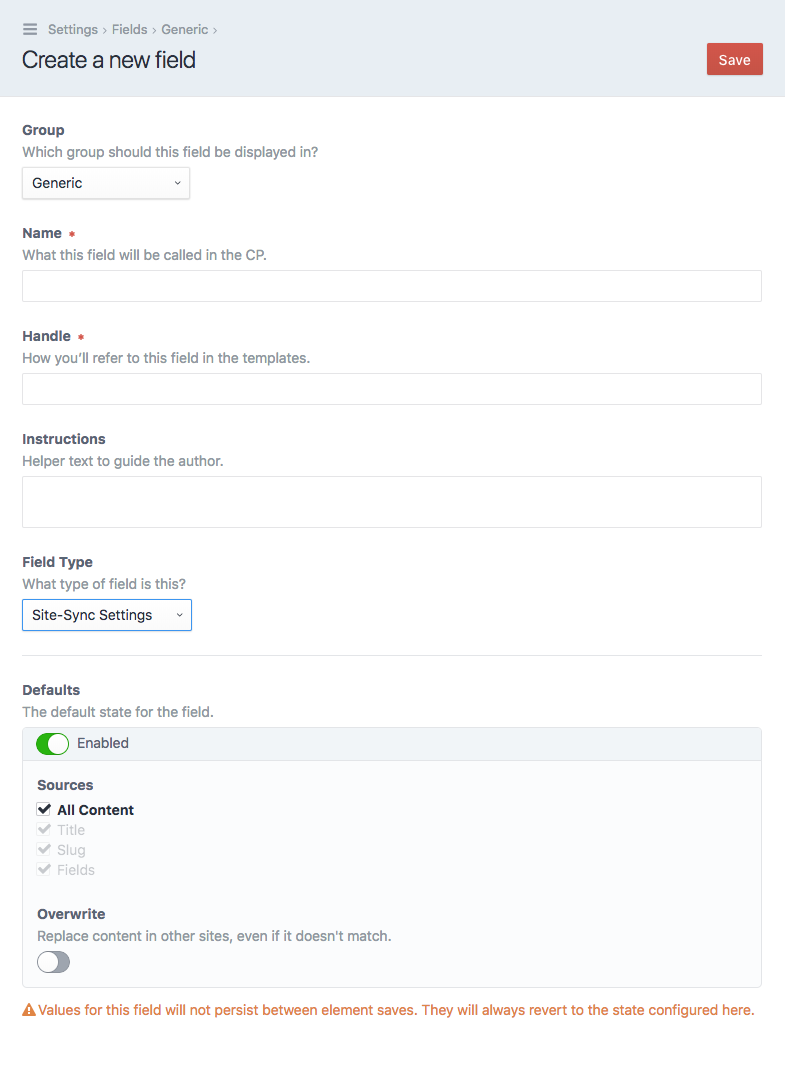
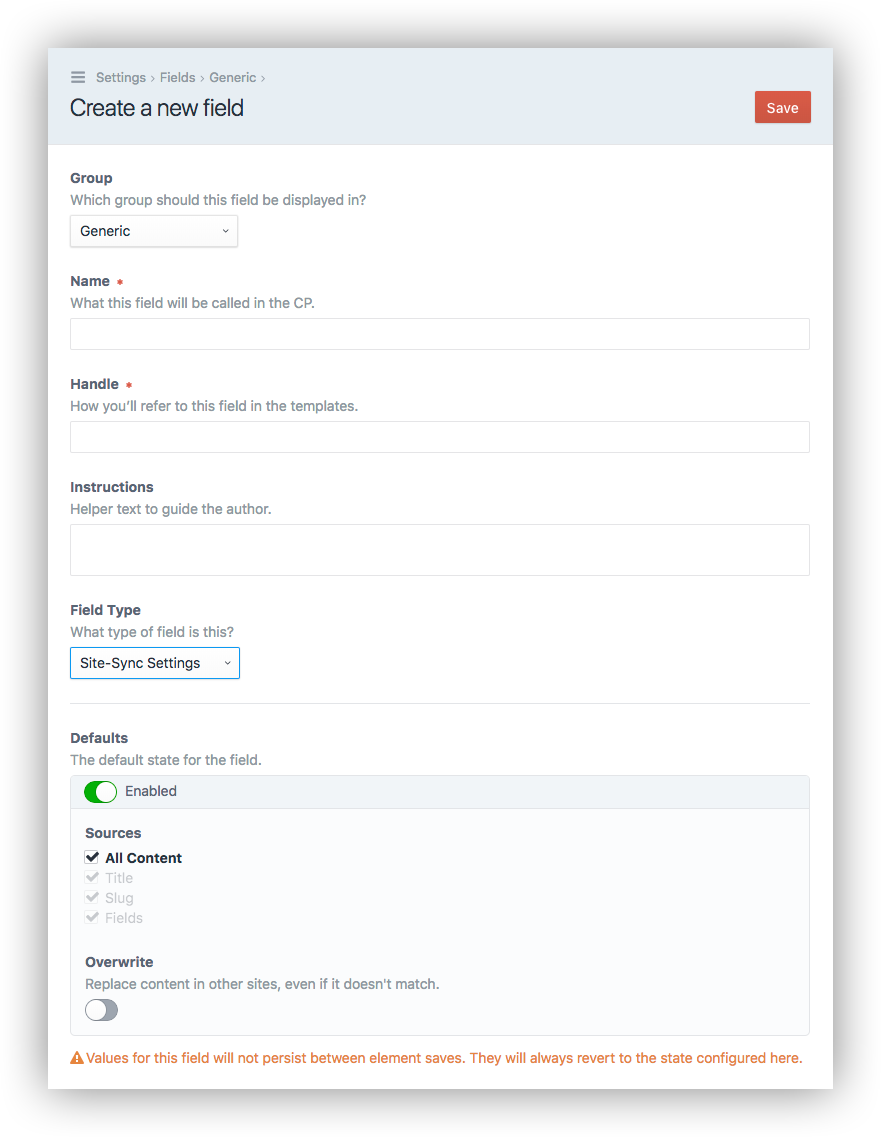
New screens

Changed region(s): [[0.0306, 0.0, 0.9783, 0.9906]]

diff --git a/README.md b/README.md
@@ -1,3 +1,5 @@
+![Site-Sync Settings Field](https://raw.githubusercontent.com/timkelty/craft-site-sync/master/resources/screenshot-field.png)
+
 Synchronize content between sites in a multi-site [Craft CMS](https://craftcms.com/) installation.
 
 ---
@@ -18,6 +20,8 @@ Unlike the [Craft 2 version](https://github.com/timkelty/craft-site-sync/tree/cr
 Each field layout where you would like to perform syncing must contain a **Site-Sync Settings** field.
 
 In the field settings you can configure the default state of the field. Note, that unlike most fields, changes to this field do not persist between element saves. They will always revert to the state configured in the field settings.
+
+![Site-Sync Settings Field](https://raw.githubusercontent.com/timkelty/craft-site-sync/master/resources/screenshot-field-settings.png)
 
 When you save an entry with a **Site-Sync Settings** field:
 
